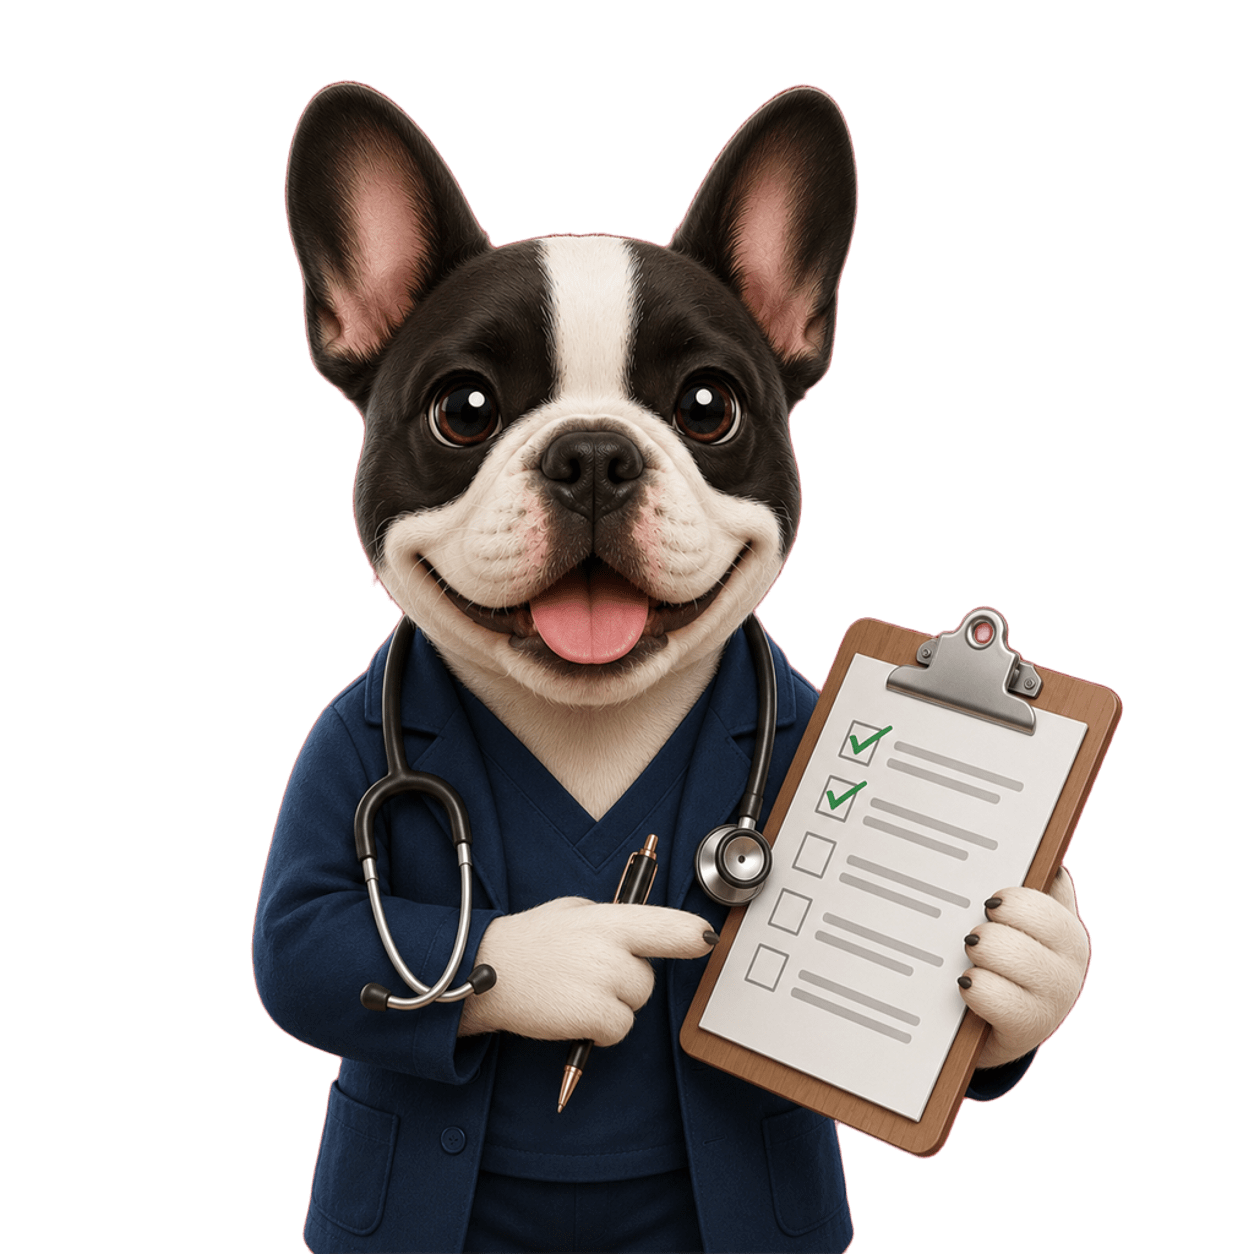
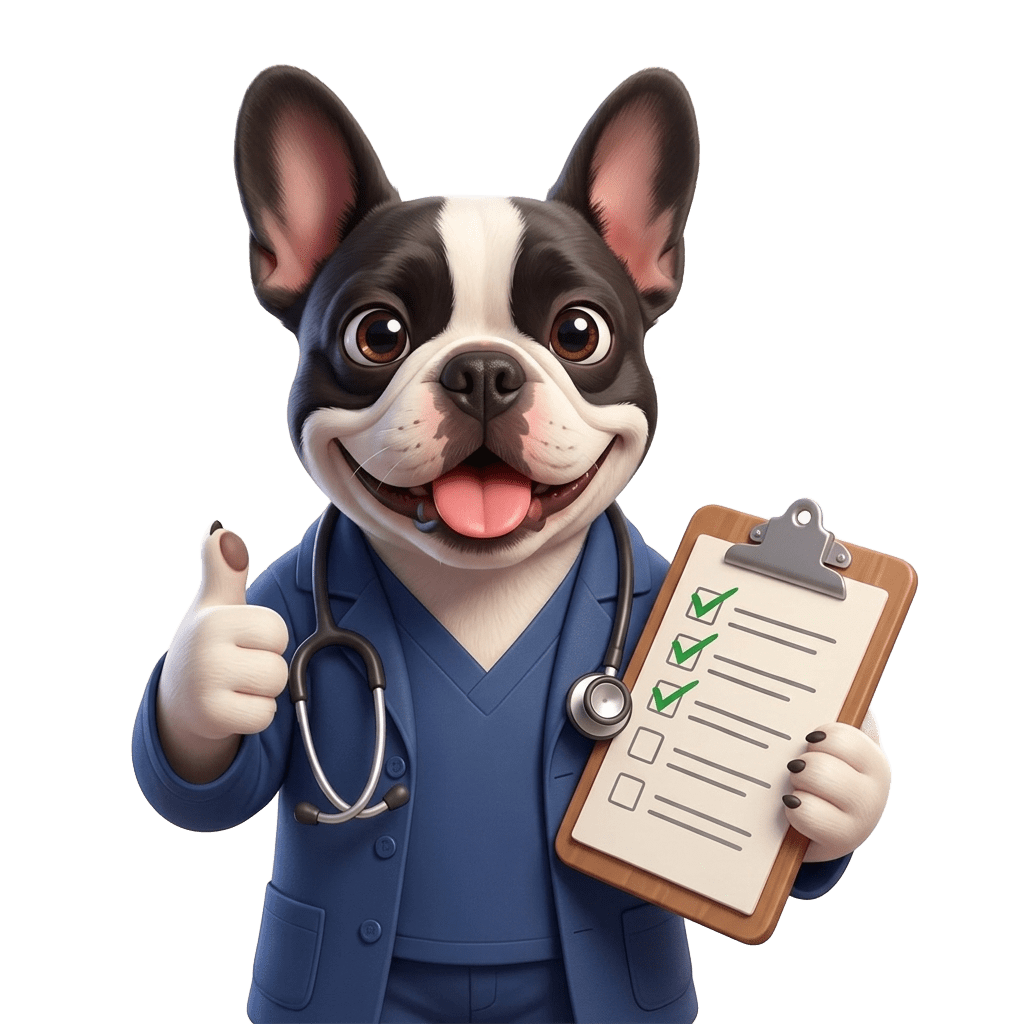
agregando nuevas imagenes

Changed region(s): [[0.125, 0.0625, 0.9062, 1.0]]

diff --git a/src/components/steps/BranchSelectionStep.tsx b/src/components/steps/BranchSelectionStep.tsx
@@ -163,13 +163,13 @@ export function BranchSelectionStep({ formData, update, onNext }: BranchSelectio
           </div>
         </div>
 
-        <div className="mt-3 flex items-end justify-end sm:absolute sm:-bottom-8 sm:right-0 sm:mt-0">
-          <div className="relative mb-10 max-w-40 rounded-2xl bg-white px-3 py-2 text-xs font-medium leading-snug text-gray-600 shadow-md">
+        <div className="mt-3 flex items-end justify-end sm:absolute sm:-bottom-8 sm:right-0 sm:mt-0 -mr-10">
+          <div className="relative mb-14 max-w-25 -mr-14 rounded-2xl bg-white px-3 py-1 text-xs font-bold leading-snug text-gray-600 shadow-md">
             Elige tu sede mas cercana
             <span className="absolute -right-1.5 bottom-5 h-3 w-3 rotate-45 bg-white" />
           </div>
           <img
-            src="/images/vetMascot/copy.png"
+            src="/images/vetMascot/map.png"
             alt="Asistente veterinario"
             className="h-24 sm:h-28 lg:h-32 select-none"
           />

diff --git a/src/components/steps/OwnerInfoStep.tsx b/src/components/steps/OwnerInfoStep.tsx
@@ -167,13 +167,13 @@ export function OwnerInfoStep({ formData, update, onNext }: OwnerInfoStepProps) 
           </div>
         </div>
 
-        <div className="mt-3 flex items-end justify-end sm:absolute sm:-bottom-8 sm:right-0 sm:mt-0">
+        <div className="mt-3 flex items-end justify-end sm:absolute sm:-bottom-6 sm:right-0 sm:mt-0">
           <div className="relative mb-10 max-w-44 rounded-2xl bg-white px-3 py-2 text-xs font-medium leading-snug text-gray-600 shadow-md">
             ¡Yo te ayudo!
             <span className="absolute -right-1.5 bottom-5 h-3 w-3 rotate-45 bg-white" />
           </div>
           <img
-            src="/images/vetMascot/copy.png"
+            src="/images/vetMascot/pesoMascota.png"
             alt="Asistente veterinario"
             className="h-24 sm:h-28 lg:h-32 select-none"
           />

diff --git a/src/components/steps/ConfirmationStep.tsx b/src/components/steps/ConfirmationStep.tsx
@@ -495,9 +495,9 @@ export function ConfirmationStep({ formData, onAddAnother, onRemovePet, onEditPe
         </div>
         <div className="absolute right-0 top-1/2 z-10 -translate-y-[70%] translate-x-[10%]">
           <motion.img
-            src="/images/vetMascot/copy.png"
+            src="/images/vetMascot/aprobado.png"
             alt="Asistente mascota"
-            className="h-28 w-28 object-contain drop-shadow-md sm:h-32 sm:w-32"
+            className="h-28 w-28 object-contain drop-shadow-md sm:h-34 sm:w-34"
             initial={{ opacity: 0, scale: 0.85, x: 12 }}
             animate={{ opacity: 1, scale: 1, x: 0 }}
             transition={{ duration: 0.3, delay: 0.15 }}
